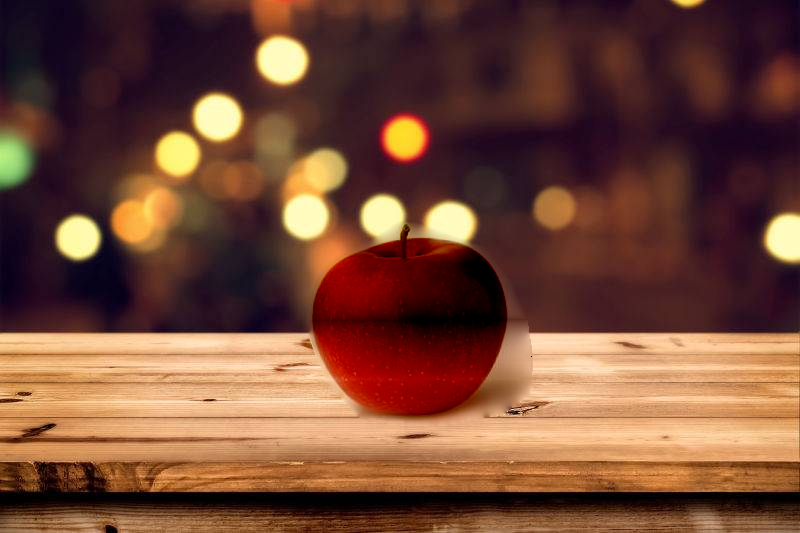
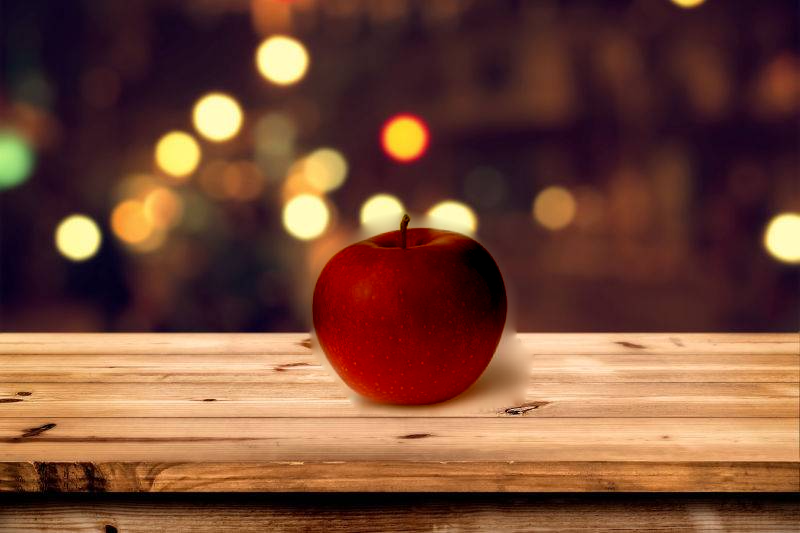
change boundary sorting algo and mask for img2

Changed region(s): [[0.375, 0.3902, 0.6875, 0.8105]]

diff --git a/coordinate_based_image_cloning/src/cloning.rs b/coordinate_based_image_cloning/src/cloning.rs
@@ -83,13 +83,19 @@ impl CloningImage {
 
         let mut fg_bound: Vec<(usize, usize, f64, f64, f64)> = vec![];
 
-        let dx = [0, 0, 1, -1];
-        let dy = [1, -1, 0, 0];
+        let dx = [0, 1, 0, -1];
+        let dy = [-1, 0, 1, 0];
 
-        let mut center = (0, 0);
+        let mut boundary_map: Vec<Option<(f64, f64, f64)>> = vec![];
+
+        //top point
+        let mut init_boundary_pt = (fg_mask_mat.nrow, fg_mask_mat.ncol);
+
+        let mut boundary_cnt = 0 as usize;
 
         for i in 0..fg_mask_mat.elem.len() {
             let local = (i / fg_mask_mat.ncol, i % fg_mask_mat.ncol);
+            boundary_map.push(None);
             match fg_mask_mat.elem[i] {
                 Some(_) => {
                     bg_mask_idx.push((local.0 + offset.0, local.1 + offset.1));
@@ -104,15 +110,16 @@ impl CloningImage {
                             let local_nbh = (local_nbh.0 as usize, local_nbh.1 as usize);
                             if let Some(_) = fg_mask_mat[local_nbh] {
                                 //local is in boundary
+                                if local.0 < init_boundary_pt.0 { init_boundary_pt = local; }
+                                boundary_cnt += 1;
+
                                 let global = (offset.0 + local.0, offset.1 + local.1);
                                 let r = bg_mat[(0, global.0, global.1)] - fg_mat[(0, local.0, local.1)];
                                 let g = bg_mat[(1, global.0, global.1)] - fg_mat[(1, local.0, local.1)];
                                 let b = bg_mat[(2, global.0, global.1)] - fg_mat[(2, local.0, local.1)];
 
-                                fg_bound.push((local.0, local.1, r, g, b));
+                                *boundary_map.last_mut().unwrap() = Some((r, g, b));
 
-                                center.0 += local.0;
-                                center.1 += local.1;
                                 break;
                             }
                         }
@@ -121,6 +128,39 @@ impl CloningImage {
             };
         }
 
+        println!("bondary cnt = {}", boundary_cnt);
+
+        let (r, g, b) = match boundary_map[init_boundary_pt.0 * fg_mask_mat.ncol + init_boundary_pt.1] {
+            Some((r, g, b)) => (r, g, b),
+            None => unreachable!()
+        };
+        fg_bound.push((init_boundary_pt.0, init_boundary_pt.1, r, g, b));
+
+        let dx = [0, 1, 1, 1, 0, -1, -1, -1];
+        let dy = [-1, -1, 0, 1, 1, 1, 0, -1];
+
+
+        loop {
+            let mut over = true;
+            for i in 0..8 {
+                let nbh = (init_boundary_pt.0 as i32 + dx[i], init_boundary_pt.1 as i32 + dy[i]);
+                if nbh.0 >= 0 && nbh.0 < fg_mask_mat.nrow as i32 && nbh.1 >= 0 && nbh.1 < fg_mask_mat.ncol as i32 {
+                    let nbh = (nbh.0 as usize, nbh.1 as usize);
+                    if let Some((r, g, b)) = boundary_map[nbh.0 * fg_mask_mat.ncol + nbh.1] {
+                        fg_bound.push((nbh.0, nbh.1, r, g, b));
+                        boundary_map[init_boundary_pt.0 * fg_mask_mat.ncol + init_boundary_pt.1] = None;
+                        init_boundary_pt = nbh;
+                        over = false;
+                        break;
+                    }
+                }
+            }
+            if over { break; }
+        }
+
+        assert_eq!(boundary_cnt, fg_bound.len());
+
+        /*
         let center = (center.0 as f32 / fg_bound.len() as f32, center.1 as f32 / fg_bound.len() as f32);
         fg_bound.sort_by(|a, b| {
             if a.0 == 0 && b.0 == 0 { return (a.1).cmp(&b.1).reverse(); }
@@ -132,8 +172,8 @@ impl CloningImage {
             let a_len2 = (a.0 as f32 - center.0) * (a.0 as f32 - center.0) + (a.1 as f32 - center.1) * (a.1 as f32 - center.1);
             let b_len2 = (b.0 as f32 - center.0) * (b.0 as f32 - center.0) + (b.1 as f32 - center.1) * (b.1 as f32 - center.1);
             a_len2.partial_cmp(&b_len2).unwrap().reverse()
-            //a_len2.cmp(&b_len2).reverse()
         });
+        */
 
         CloningImage {
             bg_mat,
